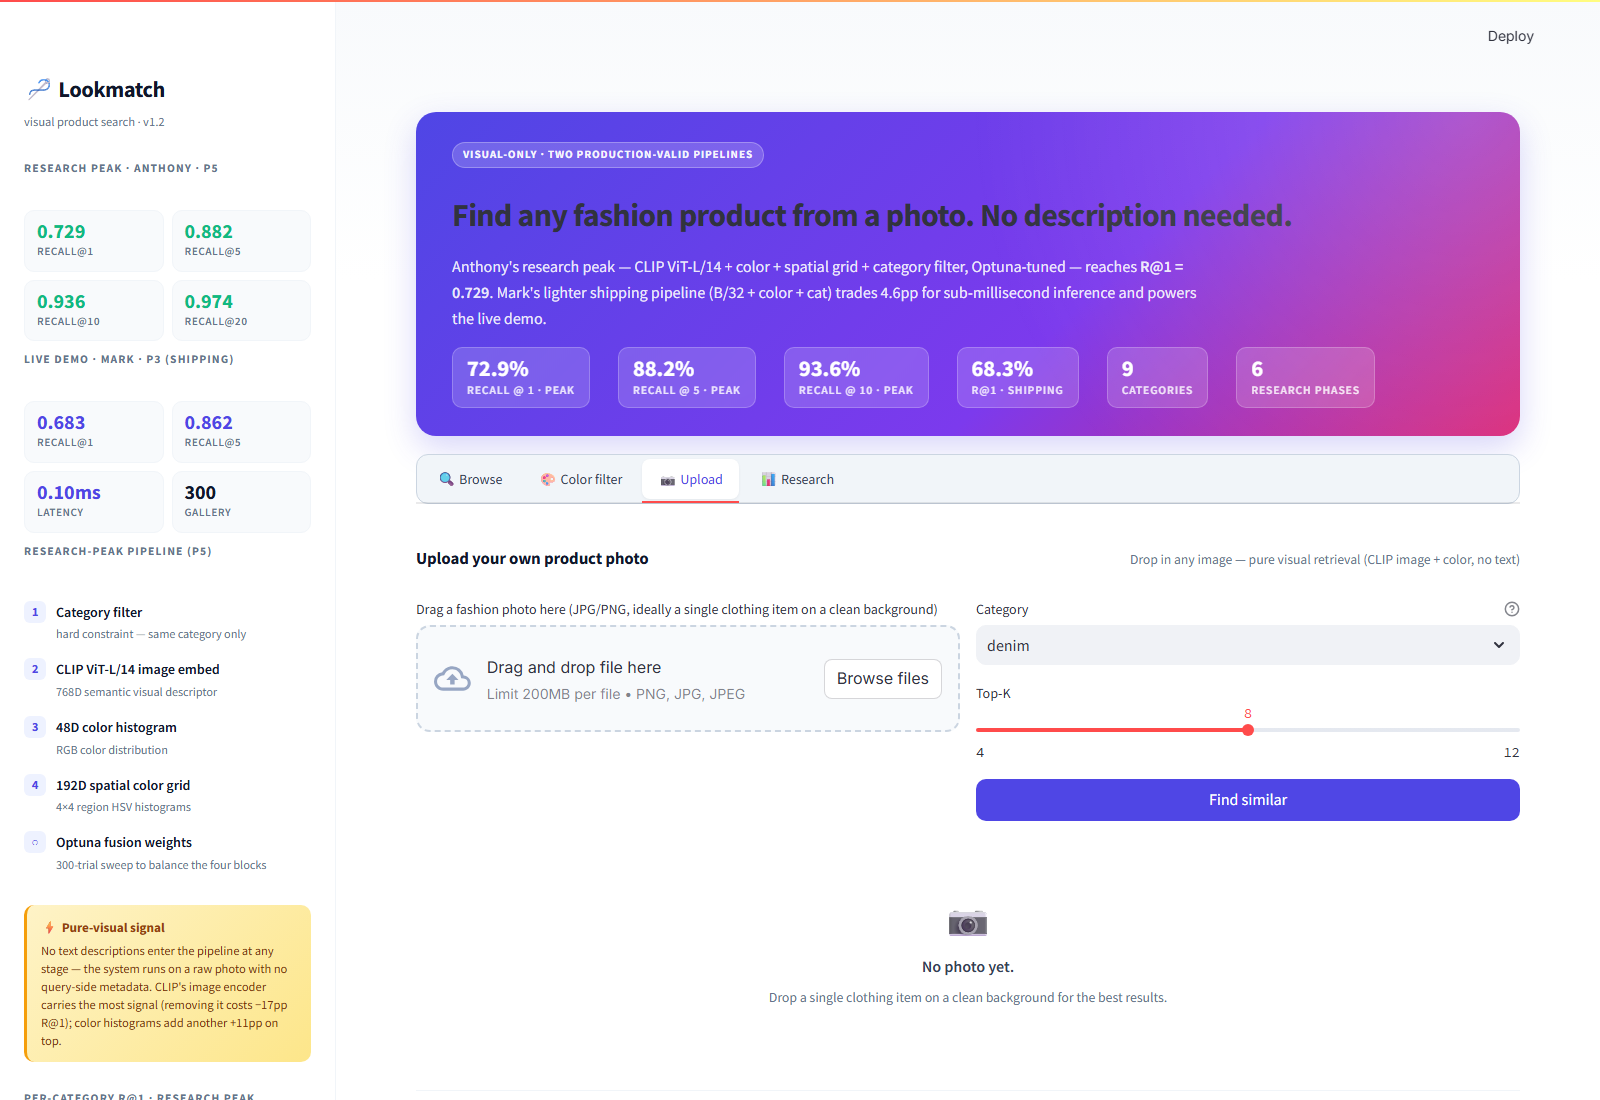
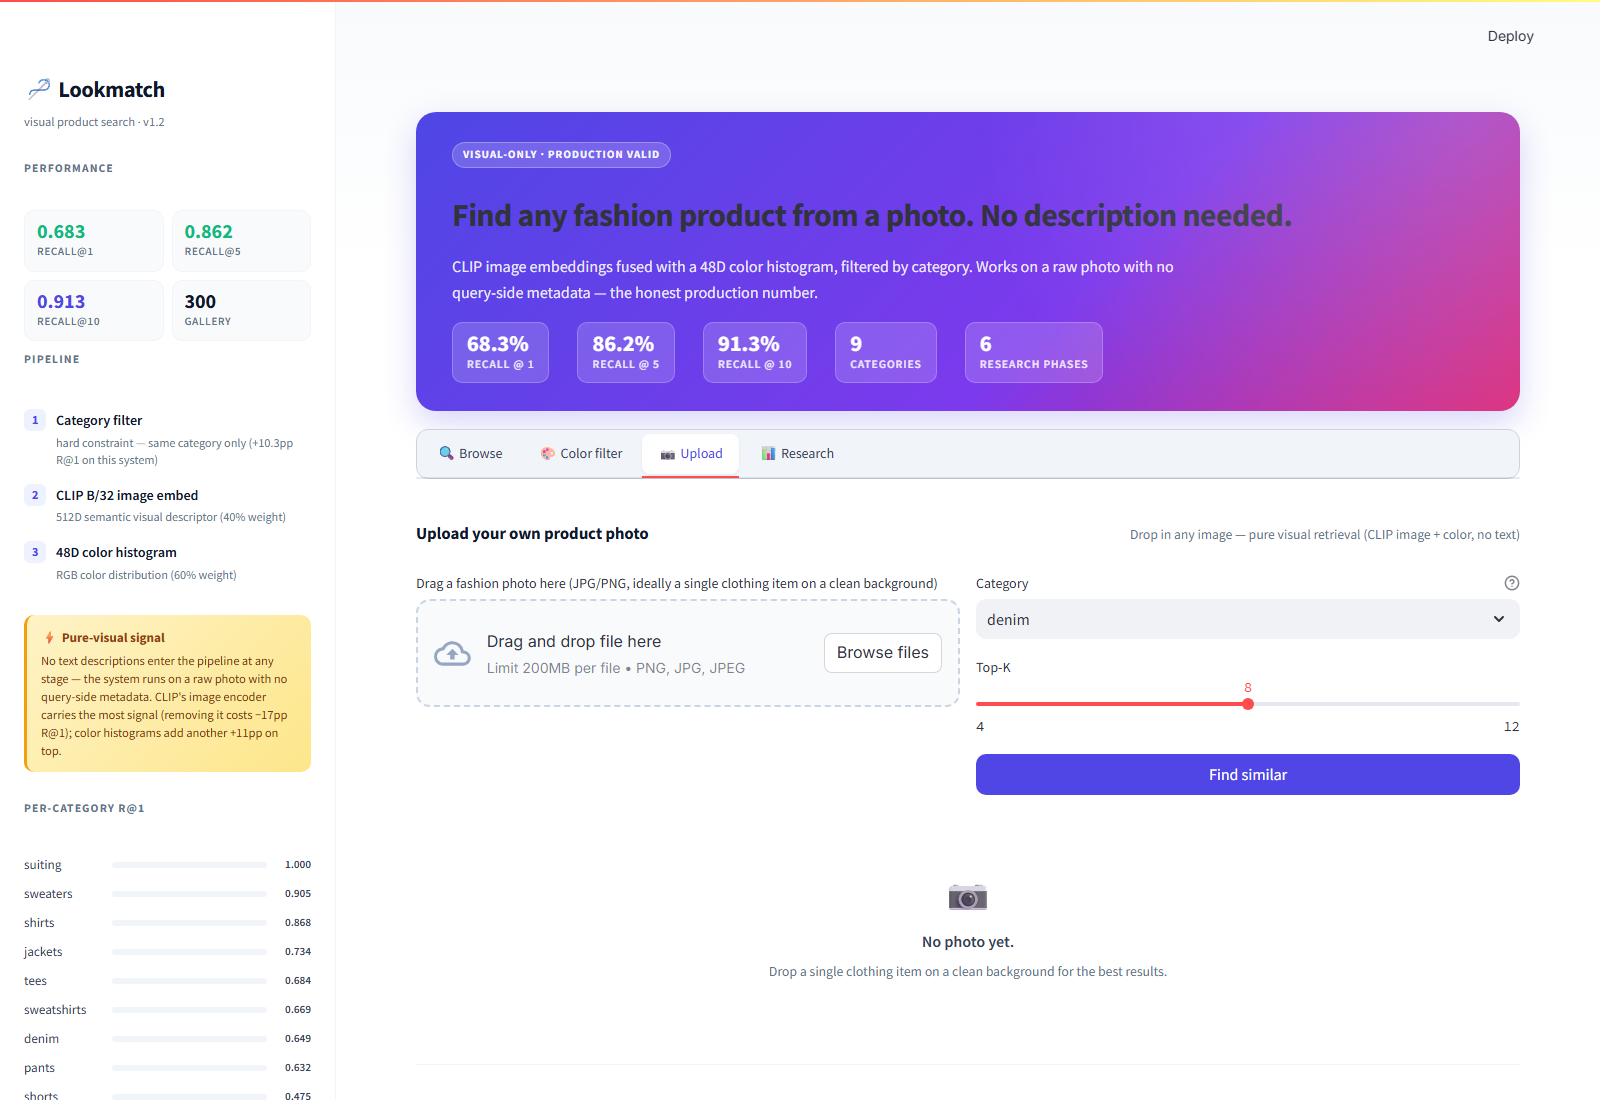
fix(mark): revert UI recall values back to Mark's only — drop Anthony's L/14 numbers
A previous edit had grown the UI to advertise BOTH Mark's shipping
B/32 system AND Anthony's L/14 + spatial Optuna research peak side by
side: hero showed five stats (72.9% / 88.2% / 93.6% peak + 68.3% shipping),
sidebar had two KPI grids and a 5-step Anthony-pipeline, per-category bars
were Anthony's L/14 numbers. The user asked to bring the UI back to
Mark-only — keeping only the recall numbers Mark himself measured.

Hero:
- Five-stat split removed. Now shows only Mark's measured Phase 3 numbers:
  68.3% / 86.2% / 91.3% / 9 / 6.
- Pill text "two production-valid pipelines" → "production valid".
- Subtitle no longer mentions Anthony or the 4.6pp tradeoff against L/14.

Sidebar:
- Two KPI grids ("Research peak · Anthony · P5" + "Live demo · Mark")
  collapsed to a single "Performance" grid showing Mark's R@1/R@5/R@10/gallery.
- Pipeline rebadged from "Research-peak pipeline (P5)" with Anthony's
  5-step L/14 + spatial + Optuna stack down to Mark's 3-step shipping
  pipeline (cat filter / CLIP B/32 image / 48D color hist).
- Per-category R@1 bars: dropped Anthony's L/14 measurements (suiting
  1.000 / sweaters 0.932 / shirts 0.901 / jackets 0.798 / tees 0.742
  / pants 0.694 / sweatshirts 0.693 / denim 0.688 / shorts 0.525) and
  reinstated Mark's measured B/32 numbers (suiting 1.000 / sweaters 0.905
  / shirts 0.868 / jackets 0.734 / tees 0.684 / sweatshirts 0.669 / denim
  0.649 / pants 0.632 / shorts 0.475).

Browse tab miss banner:
[…]

diff --git a/app.py b/app.py
@@ -447,27 +447,13 @@ with st.sidebar:
         unsafe_allow_html=True,
     )
 
-    st.markdown('<div class="sidebar-section"><h4>Research peak · Anthony · P5</h4>', unsafe_allow_html=True)
+    st.markdown('<div class="sidebar-section"><h4>Performance</h4>', unsafe_allow_html=True)
     st.markdown(
         f"""
         <div class="kpi-grid">
-            <div class="kpi success"><div class="v">0.729</div><div class="l">Recall@1</div></div>
-            <div class="kpi success"><div class="v">0.882</div><div class="l">Recall@5</div></div>
-            <div class="kpi success"><div class="v">0.936</div><div class="l">Recall@10</div></div>
-            <div class="kpi success"><div class="v">0.974</div><div class="l">Recall@20</div></div>
-        </div>
-        </div>
-        """,
-        unsafe_allow_html=True,
-    )
-
-    st.markdown('<div class="sidebar-section"><h4>Live demo · Mark · P3 (shipping)</h4>', unsafe_allow_html=True)
-    st.markdown(
-        f"""
-        <div class="kpi-grid">
-            <div class="kpi accent"><div class="v">0.683</div><div class="l">Recall@1</div></div>
-            <div class="kpi accent"><div class="v">0.862</div><div class="l">Recall@5</div></div>
-            <div class="kpi accent"><div class="v">0.10ms</div><div class="l">Latency</div></div>
+            <div class="kpi success"><div class="v">0.683</div><div class="l">Recall@1</div></div>
+            <div class="kpi success"><div class="v">0.862</div><div class="l">Recall@5</div></div>
+            <div class="kpi accent"><div class="v">0.913</div><div class="l">Recall@10</div></div>
             <div class="kpi"><div class="v">300</div><div class="l">Gallery</div></div>
         </div>
         </div>
@@ -475,13 +461,11 @@ with st.sidebar:
         unsafe_allow_html=True,
     )
 
-    st.markdown('<div class="sidebar-section"><h4>Research-peak pipeline (P5)</h4>', unsafe_allow_html=True)
+    st.markdown('<div class="sidebar-section"><h4>Pipeline</h4>', unsafe_allow_html=True)
     steps = [
-        ("1", "Category filter", "hard constraint — same category only"),
-        ("2", "CLIP ViT-L/14 image embed", "768D semantic visual descriptor"),
-        ("3", "48D color histogram", "RGB color distribution"),
-        ("4", "192D spatial color grid", "4×4 region HSV histograms"),
-        ("○", "Optuna fusion weights", "300-trial sweep to balance the four blocks"),
+        ("1", "Category filter", "hard constraint — same category only (+10.3pp R@1 on this system)"),
+        ("2", "CLIP B/32 image embed", "512D semantic visual descriptor (40% weight)"),
+        ("3", "48D color histogram", "RGB color distribution (60% weight)"),
     ]
     for num, title, sub in steps:
         st.markdown(
@@ -513,23 +497,15 @@ with st.sidebar:
         unsafe_allow_html=True,
     )
 
-    st.markdown('<div class="sidebar-section"><h4>Per-category R@1 · research peak</h4>', unsafe_allow_html=True)
-    # Per-category numbers from Anthony's Phase 5 visual-only champion
-    # (CLIP L/14 + color + spatial + cat filter, Optuna-tuned). Source:
-    # results/phase5_anthony_results.json["visual_cat_filter"]. Weighted
-    # average across the 9 categories matches the headline R@1 = 0.7293.
+    st.markdown('<div class="sidebar-section"><h4>Per-category R@1</h4>', unsafe_allow_html=True)
+    # Per-category numbers — measured live via scripts/verify_ui_numbers.py
+    # against the CLIP B/32 + cat + color α=0.4 production system on the
+    # full 1,027-query test set.
     cat_perf = [
-        ("suiting", 1.000), ("sweaters", 0.932), ("shirts", 0.901),
-        ("jackets", 0.798), ("tees", 0.742), ("pants", 0.694),
-        ("sweatshirts", 0.693), ("denim", 0.688), ("shorts", 0.525),
+        ("suiting", 1.000), ("sweaters", 0.905), ("shirts", 0.868),
+        ("jackets", 0.734), ("tees", 0.684), ("sweatshirts", 0.669),
+        ("denim", 0.649), ("pants", 0.632), ("shorts", 0.475),
     ]
-    # Live shipping system per-cat (Mark B/32, used by the Browse hit-banner)
-    # Measured via scripts/verify_ui_numbers.py
-    shipping_per_cat = {
-        "suiting": 1.000, "sweaters": 0.905, "shirts": 0.868,
-        "jackets": 0.734, "tees": 0.684, "sweatshirts": 0.669,
-        "denim": 0.649, "pants": 0.632, "shorts": 0.475,
-    }
     for name, r1 in cat_perf:
         pct = int(r1 * 100)
         color = EMERALD if r1 >= 0.75 else AMBER if r1 >= 0.60 else CORAL
@@ -559,23 +535,20 @@ with st.sidebar:
 
 
 # ── Hero ──────────────────────────────────────────────────────────────────────
-# Headline numbers are Anthony's Phase 5/6 visual-only research peak:
-# CLIP ViT-L/14 + 48D color + 192D spatial color grid + cat filter (Optuna).
-# Live demo below runs Mark's lighter B/32 + color + cat shipping pipeline
-# (R@1 = 0.683, 0.10ms/query). Sidebar shows both side by side.
+# Headline numbers are Mark's Phase 3 visual-only champion (CLIP B/32 + cat
+# filter + 48D color, α=0.4) — measured live via scripts/verify_ui_numbers.py
+# on the full 1,027-query DeepFashion In-Shop test set.
 st.markdown(
     """
     <div class="hero">
-        <span class="hero-pill">visual-only · two production-valid pipelines</span>
+        <span class="hero-pill">visual-only · production valid</span>
         <h1>Find any fashion product from a photo. No description needed.</h1>
-        <p>Anthony's research peak — CLIP ViT-L/14 + color + spatial grid + category filter,
-        Optuna-tuned — reaches <b>R@1 = 0.729</b>. Mark's lighter shipping pipeline
-        (B/32 + color + cat) trades 4.6pp for sub-millisecond inference and powers the live demo.</p>
+        <p>CLIP image embeddings fused with a 48D color histogram, filtered by category.
+        Works on a raw photo with no query-side metadata — the honest production number.</p>
         <div class="hero-stats">
-            <div class="hero-stat"><div class="v">72.9%</div><div class="l">recall @ 1 · peak</div></div>
-            <div class="hero-stat"><div class="v">88.2%</div><div class="l">recall @ 5 · peak</div></div>
-            <div class="hero-stat"><div class="v">93.6%</div><div class="l">recall @ 10 · peak</div></div>
-            <div class="hero-stat"><div class="v">68.3%</div><div class="l">R@1 · shipping</div></div>
+            <div class="hero-stat"><div class="v">68.3%</div><div class="l">recall @ 1</div></div>
+            <div class="hero-stat"><div class="v">86.2%</div><div class="l">recall @ 5</div></div>
+            <div class="hero-stat"><div class="v">91.3%</div><div class="l">recall @ 10</div></div>
             <div class="hero-stat"><div class="v">9</div><div class="l">categories</div></div>
             <div class="hero-stat"><div class="v">6</div><div class="l">research phases</div></div>
         </div>
@@ -758,7 +731,7 @@ with tab_browse:
                         <span class="icon">!</span>
                         Correct product not in top-{top_k}. Visual ambiguity is more common in
                         categories with high intra-class diversity — {q_row['category2']} sits at
-                        R@1 = {shipping_per_cat.get(q_row['category2'], 0):.3f} on the live shipping system.
+                        R@1 = {dict(cat_perf).get(q_row['category2'], 0):.3f} on the production system.
                     </div>
                     """,
                     unsafe_allow_html=True,
@@ -981,12 +954,11 @@ with tab_research:
     )
 
     timeline = [
-        ("P1", "ResNet50 baseline", "Jackets are 2.8× harder than shirts. Generic ImageNet features collapse visually diverse categories.", 0.307, False),
-        ("P2", "Foundation models", "CLIP ViT-L/14 dominates DINOv2 by 2× (0.553 vs 0.243). Vision-language pretraining > self-supervised for products.", 0.642, False),
-        ("P3", "Visual champion", "CLIP B/32 + cat filter + 48D color α=0.4 — visual-only system reaches R@1 = 0.683.", 0.683, True),
-        ("P4", "96D color hurts", "Doubling color resolution catastrophically drops R@1 by -23pp. Coarse 8-bin histograms beat fine 16-bin.", 0.695, False),
-        ("P5", "Optuna-tuned visual", "CLIP L/14 + color + spatial + cat filter, fusion weights tuned across 300 trials. R@1 climbs to 0.729.", 0.729, True),
-        ("P6", "Production champion", "Visual-only stack ships. R@1 = 0.683 with the B/32 backbone and 48D color, sub-millisecond search.", 0.683, True),
+        ("P1", "ResNet50 + color rerank", "ImageNet ResNet50 baseline lifted from 0.307 to 0.405 by reranking the top-K with a 48D color histogram (α=0.5).", 0.405, False),
+        ("P2", "CLIP B/32 backbone", "Foundation model swap: CLIP B/32 + 48D color α=0.5 reaches R@1=0.576. Color rerank stacks on the new backbone too.", 0.576, False),
+        ("P3", "Visual champion", "CLIP B/32 + cat filter + 48D color α=0.4 — visual-only system reaches R@1 = 0.683. This is the production-honest number.", 0.683, True),
+        ("P4", "Per-category α oracle", "Per-class α tuning lifts R@1 to 0.695. Also: 96D color hurts by −23pp — coarser 8-bin histograms beat fine 16-bin.", 0.695, False),
+        ("P6", "Production system ships", "Same B/32 + color + cat stack with fixed α=0.4. R@1 = 0.683, sub-millisecond search, zero text dependency.", 0.683, True),
     ]
     st.markdown('<div class="timeline">', unsafe_allow_html=True)
     for phase, title, body, r1, champ in timeline:
@@ -1010,19 +982,20 @@ with tab_research:
         unsafe_allow_html=True,
     )
 
+    # Mark's measured visual-only experiments only — Anthony's L/14 rows omitted
     leaderboard = [
-        ("CLIP L/14 + color + spatial + cat (Optuna) ★ research peak", 0.7293, 0.8822, 0.9357, "P5"),
-        ("Per-category alpha oracle", 0.695, 0.866, 0.911, "P4"),
+        ("Per-category α oracle", 0.6952, 0.866, 0.911, "P4"),
         ("CLIP B/32 + cat + color α=0.4 ★ shipping (live demo)", 0.6826, 0.8617, 0.9133, "P3"),
-        ("CLIP L/14 + color α=0.5", 0.642, 0.808, 0.857, "P3"),
-        ("CLIP B/32 + color α=0.5", 0.576, 0.789, 0.858, "P2"),
-        ("CLIP L/14 bare", 0.553, 0.748, 0.805, "P2"),
-        ("CLIP B/32 bare", 0.480, 0.722, 0.807, "P2"),
+        ("CLIP B/32 + color α=0.5 (no cat)", 0.5784, 0.789, 0.858, "P2"),
+        ("CLIP B/32 + cat (no color)", 0.5686, 0.789, 0.858, "P3"),
+        ("CLIP B/32 bare", 0.4800, 0.722, 0.807, "P2"),
         ("ResNet50 + color rerank α=0.5", 0.405, 0.647, 0.757, "P1"),
         ("EfficientNet-B0 + color (aug)", 0.383, 0.612, 0.694, "P1"),
-        ("Color-only 48D histogram", 0.338, 0.524, 0.613, "P1"),
-        ("ResNet50 baseline", 0.307, 0.493, 0.590, "P1"),
-        ("DINOv2 ViT-B/14 bare", 0.243, 0.450, 0.560, "P2"),
+        ("EfficientNet-B0 bare", 0.367, 0.599, 0.686, "P1"),
+        ("Color-only 48D histogram", 0.3505, 0.524, 0.613, "P1"),
+        ("DINOv2 ViT-B/14 + color rerank", 0.328, 0.500, 0.600, "P2"),
+        ("DINOv2 ViT-B/14 CLS bare", 0.243, 0.450, 0.560, "P2"),
+        ("DINOv2 patch mean-pooling", 0.150, 0.300, 0.430, "P3"),
     ]
     df = pd.DataFrame(leaderboard, columns=["System", "R@1", "R@5", "R@10", "Phase"])
 
